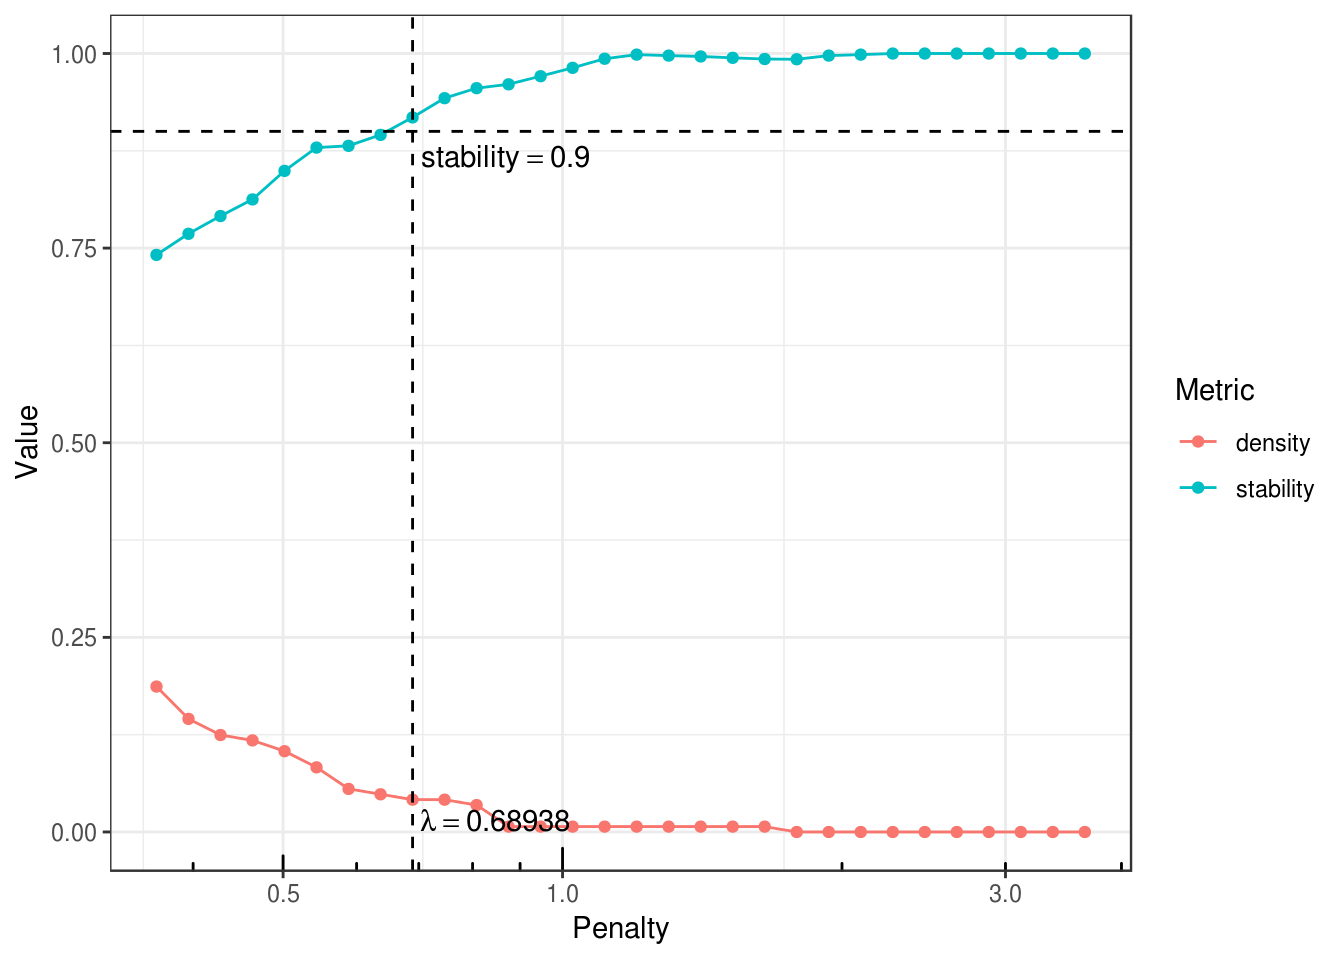
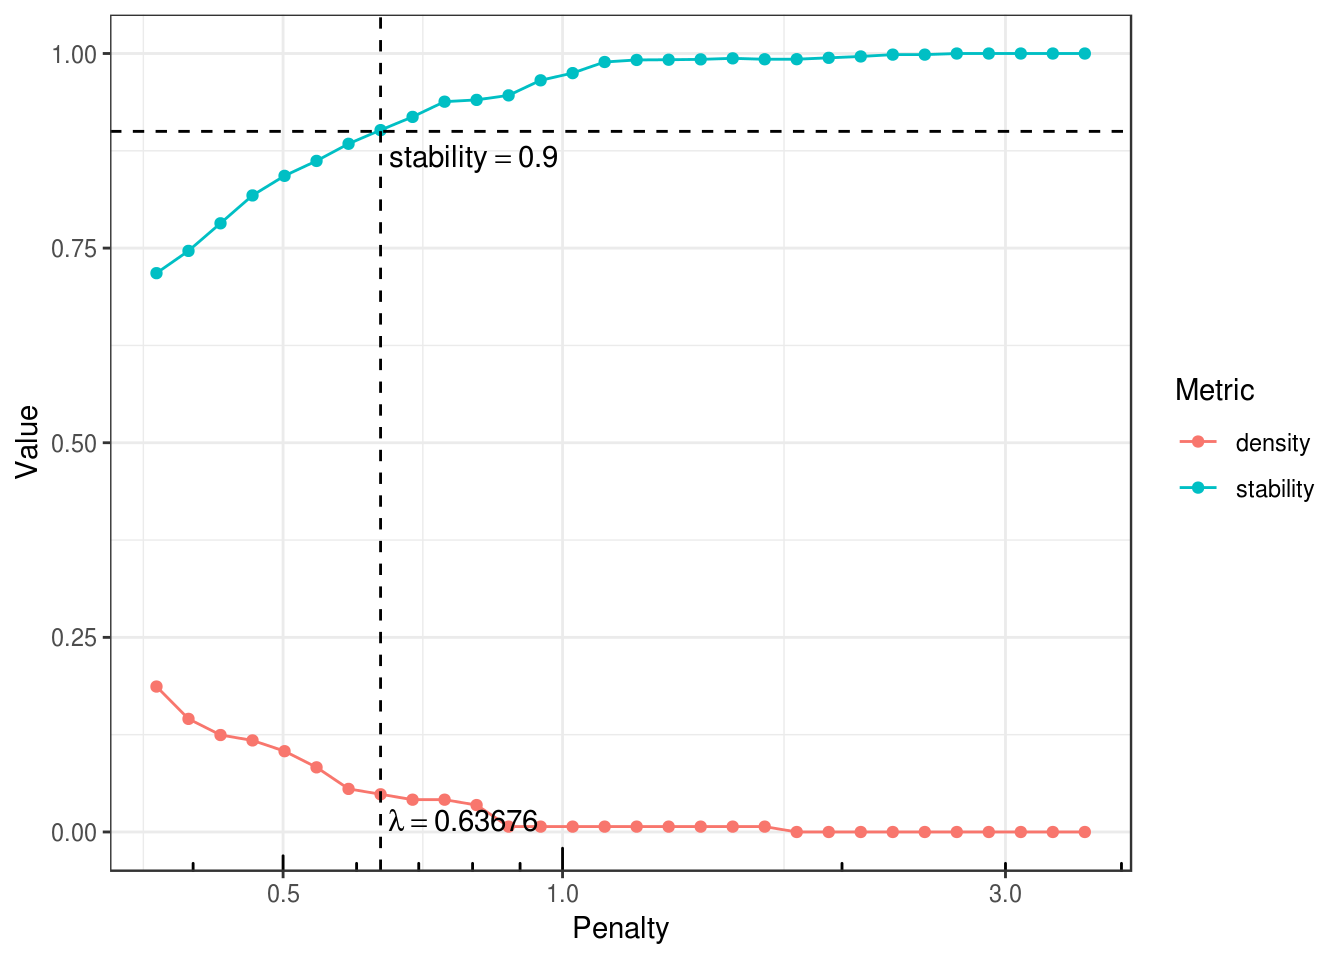
Deploy jchiquet/PLNmodels to github.com/jchiquet/PLNmodels.git:gh-pages

diff --git a/reference/rPLN.html b/reference/rPLN.html
@@ -66,7 +66,7 @@
       </button>
       <span class="navbar-brand">
         <a class="navbar-link" href="../index.html">PLNmodels</a>
-        <span class="version label label-default" data-toggle="tooltip" data-placement="bottom" title="Released version">0.9.1.9000</span>
+        <span class="version label label-default" data-toggle="tooltip" data-placement="bottom" title="Released version">0.9.1.9001</span>
       </span>
     </div>
 
@@ -183,23 +183,23 @@
 
     <h2 class="hasAnchor" id="examples"><a class="anchor" href="#examples"></a>Examples</h2>
     <pre class="examples"><div class='input'><span class='co'>## 10 samples of 5 species with equal abundances, no covariance and target depths of 10,000</span>
-<span class='fu'>rPLN</span>()</div><div class='output co'>#&gt;        [,1] [,2] [,3] [,4] [,5]
-#&gt;  [1,]  1332 3100 1947  682  292
-#&gt;  [2,]   634 1500 1798 2241 1515
-#&gt;  [3,]  1168 1521  338 9550  102
-#&gt;  [4,]   956 6059 2567  233 1262
-#&gt;  [5,]  1935 1372 8007 2044 2170
-#&gt;  [6,] 19236 1108 1078  202 3775
-#&gt;  [7,]  1314  182  517  747  218
-#&gt;  [8,]  2161  896 1238 1149  971
-#&gt;  [9,]  1393  842  547 2110  985
-#&gt; [10,]   183 3470  276  523  978</div><div class='input'><span class='co'>## 2 samples of 10 highly correlated species with target depths 1,000 and 100,000</span>
+<span class='fu'>rPLN</span>()</div><div class='output co'>#&gt;        Y1   Y2   Y3   Y4   Y5
+#&gt; S1   1332 3100 1947  682  292
+#&gt; S2    634 1500 1798 2241 1515
+#&gt; S3   1168 1521  338 9550  102
+#&gt; S4    956 6059 2567  233 1262
+#&gt; S5   1935 1372 8007 2044 2170
+#&gt; S6  19236 1108 1078  202 3775
+#&gt; S7   1314  182  517  747  218
+#&gt; S8   2161  896 1238 1149  971
+#&gt; S9   1393  842  547 2110  985
+#&gt; S10   183 3470  276  523  978</div><div class='input'><span class='co'>## 2 samples of 10 highly correlated species with target depths 1,000 and 100,000</span>
 <span class='co'>## very different abundances</span>
 <span class='no'>mu</span> <span class='kw'>&lt;-</span> <span class='fu'><a href='https://www.rdocumentation.org/packages/base/topics/rep'>rep</a></span>(<span class='fu'><a href='https://www.rdocumentation.org/packages/base/topics/c'>c</a></span>(<span class='fl'>1</span>, -<span class='fl'>1</span>), <span class='kw'>each</span> <span class='kw'>=</span> <span class='fl'>5</span>)
 <span class='no'>Sigma</span> <span class='kw'>&lt;-</span> <span class='fu'><a href='https://www.rdocumentation.org/packages/base/topics/matrix'>matrix</a></span>(<span class='fl'>0.8</span>, <span class='fl'>10</span>, <span class='fl'>10</span>); <span class='fu'><a href='https://www.rdocumentation.org/packages/base/topics/diag'>diag</a></span>(<span class='no'>Sigma</span>) <span class='kw'>&lt;-</span> <span class='fl'>1</span>
-<span class='fu'>rPLN</span>(<span class='kw'>n</span><span class='kw'>=</span><span class='fl'>2</span>, <span class='kw'>mu</span> <span class='kw'>=</span> <span class='no'>mu</span>, <span class='kw'>Sigma</span> <span class='kw'>=</span> <span class='no'>Sigma</span>, <span class='kw'>depths</span> <span class='kw'>=</span> <span class='fu'><a href='https://www.rdocumentation.org/packages/base/topics/c'>c</a></span>(<span class='fl'>1e3</span>, <span class='fl'>1e5</span>))</div><div class='output co'>#&gt;      [,1]  [,2] [,3] [,4] [,5] [,6] [,7] [,8] [,9] [,10]
-#&gt; [1,]   80    96   27   46   40    9    4    7    8     7
-#&gt; [2,] 4955 12325 6255 4962 4054  395 1473  869  791   498</div><div class='input'>
+<span class='fu'>rPLN</span>(<span class='kw'>n</span><span class='kw'>=</span><span class='fl'>2</span>, <span class='kw'>mu</span> <span class='kw'>=</span> <span class='no'>mu</span>, <span class='kw'>Sigma</span> <span class='kw'>=</span> <span class='no'>Sigma</span>, <span class='kw'>depths</span> <span class='kw'>=</span> <span class='fu'><a href='https://www.rdocumentation.org/packages/base/topics/c'>c</a></span>(<span class='fl'>1e3</span>, <span class='fl'>1e5</span>))</div><div class='output co'>#&gt;      Y1    Y2   Y3   Y4   Y5  Y6   Y7  Y8  Y9 Y10
+#&gt; S1   80    96   27   46   40   9    4   7   8   7
+#&gt; S2 4955 12325 6255 4962 4054 395 1473 869 791 498</div><div class='input'>
 </div></pre>
   </div>
   <div class="col-md-3 hidden-xs hidden-sm" id="sidebar">

diff --git a/articles/PLNnetwork.html b/articles/PLNnetwork.html
@@ -31,7 +31,7 @@
       </button>
       <span class="navbar-brand">
         <a class="navbar-link" href="../index.html">PLNmodels</a>
-        <span class="version label label-default" data-toggle="tooltip" data-placement="bottom" title="Released version">0.9.1.9000</span>
+        <span class="version label label-default" data-toggle="tooltip" data-placement="bottom" title="Released version">0.9.1.9001</span>
       </span>
     </div>
 
@@ -102,7 +102,7 @@
       <h1>Sparse structure estimation for multivariate count data with PLN-network</h1>
                         <h4 class="author">PLN team</h4>
             
-            <h4 class="date">2019-03-26</h4>
+            <h4 class="date">2019-04-12</h4>
       
       
       <div class="hidden name"><code>PLNnetwork.Rmd</code></div>
@@ -437,12 +437,12 @@
 </h3>
 <p>The variables <code>model_BIC</code>, <code>model_StARS</code> and <code>model_pen</code> are other <code>R6Class</code> objects with class <code>PLNnetworkfit</code>. They all inherits from the class <code>PLNfit</code> and thus own all its methods, with a couple of specific one, mostly for network vizualization purposes. Most fields and methods are recalled when such an object is printed:</p>
 <div class="sourceCode" id="cb17"><pre class="sourceCode r"><code class="sourceCode r"><a class="sourceLine" id="cb17-1" data-line-number="1">model_StARS</a></code></pre></div>
-<pre><code>## Poisson Lognormal with sparse inverse covariance (penalty = 0.689)
+<pre><code>## Poisson Lognormal with sparse inverse covariance (penalty = 0.637)
 ## ==================================================================
-##  nb_param    loglik       BIC       ICL R_squared n_edges     EBIC
-##        23 -1176.952 -1221.708 -2508.402     0.964       6 -1231.07
+##  nb_param    loglik       BIC      ICL R_squared n_edges     EBIC
+##        24 -1174.595 -1221.297 -2507.99     0.964       7 -1231.68
 ##  pen_loglik density
-##   -1180.199   0.042
+##   -1177.687   0.048
 ## ==================================================================
 ## * Useful fields
 ##     $model_par, $latent, $var_par, $optim_par
@@ -459,12 +459,12 @@
 <p>Here, an igraph object can be recovered.</p>
 <div class="sourceCode" id="cb20"><pre class="sourceCode r"><code class="sourceCode r"><a class="sourceLine" id="cb20-1" data-line-number="1">my_graph &lt;-<span class="st"> </span><span class="kw"><a href="https://www.rdocumentation.org/packages/graphics/topics/plot">plot</a></span>(model_StARS, <span class="dt">plot =</span> <span class="ot">FALSE</span>)</a>
 <a class="sourceLine" id="cb20-2" data-line-number="2">my_graph</a></code></pre></div>
-<pre><code>## IGRAPH 8f6b872 UNW- 17 6 -- 
+<pre><code>## IGRAPH 8e5a2c2 UNW- 17 7 -- 
 ## + attr: name (v/c), label (v/c), label.cex (v/n), size (v/n),
 ## | label.color (v/c), frame.color (v/l), weight (e/n), color (e/c),
 ## | width (e/n)
-## + edges from 8f6b872 (vertex names):
-## [1] Hym--Hsp Aga--Hsp Set--All Set--Hsp Han--Sta Hfo--Hsp</code></pre>
+## + edges from 8e5a2c2 (vertex names):
+## [1] Hym--Hsp Aga--Hfo Aga--Hsp Set--All Set--Hsp Han--Sta Hfo--Hsp</code></pre>
 <div class="sourceCode" id="cb22"><pre class="sourceCode r"><code class="sourceCode r"><a class="sourceLine" id="cb22-1" data-line-number="1"><span class="kw"><a href="https://www.rdocumentation.org/packages/graphics/topics/plot">plot</a></span>(model_BIC)</a></code></pre></div>
 <p><img src="PLNnetwork_files/figure-html/partial_corr_network-1.png" width="672"></p>
 <div class="sourceCode" id="cb23"><pre class="sourceCode r"><code class="sourceCode r"><a class="sourceLine" id="cb23-1" data-line-number="1"><span class="kw"><a href="https://www.rdocumentation.org/packages/graphics/topics/plot">plot</a></span>(model_StARS)</a></code></pre></div>

diff --git a/index.html b/index.html
@@ -37,7 +37,7 @@
       </button>
       <span class="navbar-brand">
         <a class="navbar-link" href="index.html">PLNmodels</a>
-        <span class="version label label-default" data-toggle="tooltip" data-placement="bottom" title="Released version">0.9.1.9000</span>
+        <span class="version label label-default" data-toggle="tooltip" data-placement="bottom" title="Released version">0.9.1.9001</span>
       </span>
     </div>
 
@@ -146,11 +146,11 @@
 <ul>
 <li>For the development version, use</li>
 </ul>
-<div class="sourceCode" id="cb3"><pre class="sourceCode r"><code class="sourceCode r"><a class="sourceLine" id="cb3-1" data-line-number="1">devtools<span class="op">::</span><span class="kw"><a href="https://www.rdocumentation.org/packages/devtools/topics/reexports">install_github</a></span>(<span class="st">"jchiquet/PLNmodels"</span>)</a></code></pre></div>
+<div class="sourceCode" id="cb3"><pre class="sourceCode r"><code class="sourceCode r"><a class="sourceLine" id="cb3-1" data-line-number="1">devtools<span class="op">::</span><span class="kw">install_github</span>(<span class="st">"jchiquet/PLNmodels"</span>)</a></code></pre></div>
 <ul>
 <li>For the last tagged release, use</li>
 </ul>
-<div class="sourceCode" id="cb4"><pre class="sourceCode r"><code class="sourceCode r"><a class="sourceLine" id="cb4-1" data-line-number="1">devtools<span class="op">::</span><span class="kw"><a href="https://www.rdocumentation.org/packages/devtools/topics/reexports">install_github</a></span>(<span class="st">"jchiquet/PLNmodels@v0.9.1"</span>)</a></code></pre></div>
+<div class="sourceCode" id="cb4"><pre class="sourceCode r"><code class="sourceCode r"><a class="sourceLine" id="cb4-1" data-line-number="1">devtools<span class="op">::</span><span class="kw">install_github</span>(<span class="st">"jchiquet/PLNmodels@v0.9.1"</span>)</a></code></pre></div>
 <ul>
 <li>Windows users may want to use <a href="https://github.com/jchiquet/PLNmodels/releases/download/v0.9.1/PLNmodels_0.9.1.zip">the binary version of the package</a>
 </li>

diff --git a/articles/PLNLDA.html b/articles/PLNLDA.html
@@ -31,7 +31,7 @@
       </button>
       <span class="navbar-brand">
         <a class="navbar-link" href="../index.html">PLNmodels</a>
-        <span class="version label label-default" data-toggle="tooltip" data-placement="bottom" title="Released version">0.9.1.9000</span>
+        <span class="version label label-default" data-toggle="tooltip" data-placement="bottom" title="Released version">0.9.1.9001</span>
       </span>
     </div>
 
@@ -102,7 +102,7 @@
       <h1>Supervized classification of multivariate count table with the Poisson discriminant Analysis</h1>
                         <h4 class="author">PLN team</h4>
             
-            <h4 class="date">2019-03-26</h4>
+            <h4 class="date">2019-04-12</h4>
       
       
       <div class="hidden name"><code>PLNLDA.Rmd</code></div>

diff --git a/articles/PLN.html b/articles/PLN.html
@@ -31,7 +31,7 @@
       </button>
       <span class="navbar-brand">
         <a class="navbar-link" href="../index.html">PLNmodels</a>
-        <span class="version label label-default" data-toggle="tooltip" data-placement="bottom" title="Released version">0.9.1.9000</span>
+        <span class="version label label-default" data-toggle="tooltip" data-placement="bottom" title="Released version">0.9.1.9001</span>
       </span>
     </div>
 
@@ -103,7 +103,7 @@
       <h1>Analyzing multivariate count data with the Poisson log-normal model</h1>
                         <h4 class="author">PLN team</h4>
             
-            <h4 class="date">2019-03-26</h4>
+            <h4 class="date">2019-04-12</h4>
       
       
       <div class="hidden name"><code>PLN.Rmd</code></div>

diff --git a/articles/PLNPCA.html b/articles/PLNPCA.html
@@ -31,7 +31,7 @@
       </button>
       <span class="navbar-brand">
         <a class="navbar-link" href="../index.html">PLNmodels</a>
-        <span class="version label label-default" data-toggle="tooltip" data-placement="bottom" title="Released version">0.9.1.9000</span>
+        <span class="version label label-default" data-toggle="tooltip" data-placement="bottom" title="Released version">0.9.1.9001</span>
       </span>
     </div>
 
@@ -102,7 +102,7 @@
       <h1>Dimension reduction of multivariate count data with PLN-PCA</h1>
                         <h4 class="author">PLN team</h4>
             
-            <h4 class="date">2019-03-26</h4>
+            <h4 class="date">2019-04-12</h4>
       
       
       <div class="hidden name"><code>PLNPCA.Rmd</code></div>

diff --git a/articles/Trichoptera.html b/articles/Trichoptera.html
@@ -31,7 +31,7 @@
       </button>
       <span class="navbar-brand">
         <a class="navbar-link" href="../index.html">PLNmodels</a>
-        <span class="version label label-default" data-toggle="tooltip" data-placement="bottom" title="Released version">0.9.1.9000</span>
+        <span class="version label label-default" data-toggle="tooltip" data-placement="bottom" title="Released version">0.9.1.9001</span>
       </span>
     </div>
 
@@ -102,7 +102,7 @@
       <h1>Description of the Trichoptera data set</h1>
                         <h4 class="author">PLN team</h4>
             
-            <h4 class="date">2019-03-26</h4>
+            <h4 class="date">2019-04-12</h4>
       
       
       <div class="hidden name"><code>Trichoptera.Rmd</code></div>

diff --git a/articles/Import_data.html b/articles/Import_data.html
@@ -31,7 +31,7 @@
       </button>
       <span class="navbar-brand">
         <a class="navbar-link" href="../index.html">PLNmodels</a>
-        <span class="version label label-default" data-toggle="tooltip" data-placement="bottom" title="Released version">0.9.1.9000</span>
+        <span class="version label label-default" data-toggle="tooltip" data-placement="bottom" title="Released version">0.9.1.9001</span>
       </span>
     </div>
 
@@ -102,7 +102,7 @@
       <h1>Data importation in PLNmodels</h1>
                         <h4 class="author">PLN team</h4>
             
-            <h4 class="date">2019-03-26</h4>
+            <h4 class="date">2019-04-12</h4>
       
       
       <div class="hidden name"><code>Import_data.Rmd</code></div>

diff --git a/reference/PLNmodels.html b/reference/PLNmodels.html
@@ -67,7 +67,7 @@ variational algorithms to fit such models accompanied with a set of functions fo
       </button>
       <span class="navbar-brand">
         <a class="navbar-link" href="../index.html">PLNmodels</a>
-        <span class="version label label-default" data-toggle="tooltip" data-placement="bottom" title="Released version">0.9.1.9000</span>
+        <span class="version label label-default" data-toggle="tooltip" data-placement="bottom" title="Released version">0.9.1.9001</span>
       </span>
     </div>
 

diff --git a/reference/PLNnetworkfit.html b/reference/PLNnetworkfit.html
@@ -67,7 +67,7 @@ See the documentation for plot.PLNnetworkfit + methods inherited from PLNfit." /
       </button>
       <span class="navbar-brand">
         <a class="navbar-link" href="../index.html">PLNmodels</a>
-        <span class="version label label-default" data-toggle="tooltip" data-placement="bottom" title="Released version">0.9.1.9000</span>
+        <span class="version label label-default" data-toggle="tooltip" data-placement="bottom" title="Released version">0.9.1.9001</span>
       </span>
     </div>
 

diff --git a/reference/prepare_data.html b/reference/prepare_data.html
@@ -66,7 +66,7 @@ a covariate data frame in the most comprehensive way and (ii) computes offsets f
       </button>
       <span class="navbar-brand">
         <a class="navbar-link" href="../index.html">PLNmodels</a>
-        <span class="version label label-default" data-toggle="tooltip" data-placement="bottom" title="Released version">0.9.1.9000</span>
+        <span class="version label label-default" data-toggle="tooltip" data-placement="bottom" title="Released version">0.9.1.9001</span>
       </span>
     </div>
 

diff --git a/reference/PLNfit.html b/reference/PLNfit.html
@@ -71,7 +71,7 @@ Fields are accessed via active binding and cannot be changed by the user." />
       </button>
       <span class="navbar-brand">
         <a class="navbar-link" href="../index.html">PLNmodels</a>
-        <span class="version label label-default" data-toggle="tooltip" data-placement="bottom" title="Released version">0.9.1.9000</span>
+        <span class="version label label-default" data-toggle="tooltip" data-placement="bottom" title="Released version">0.9.1.9001</span>
       </span>
     </div>
 
